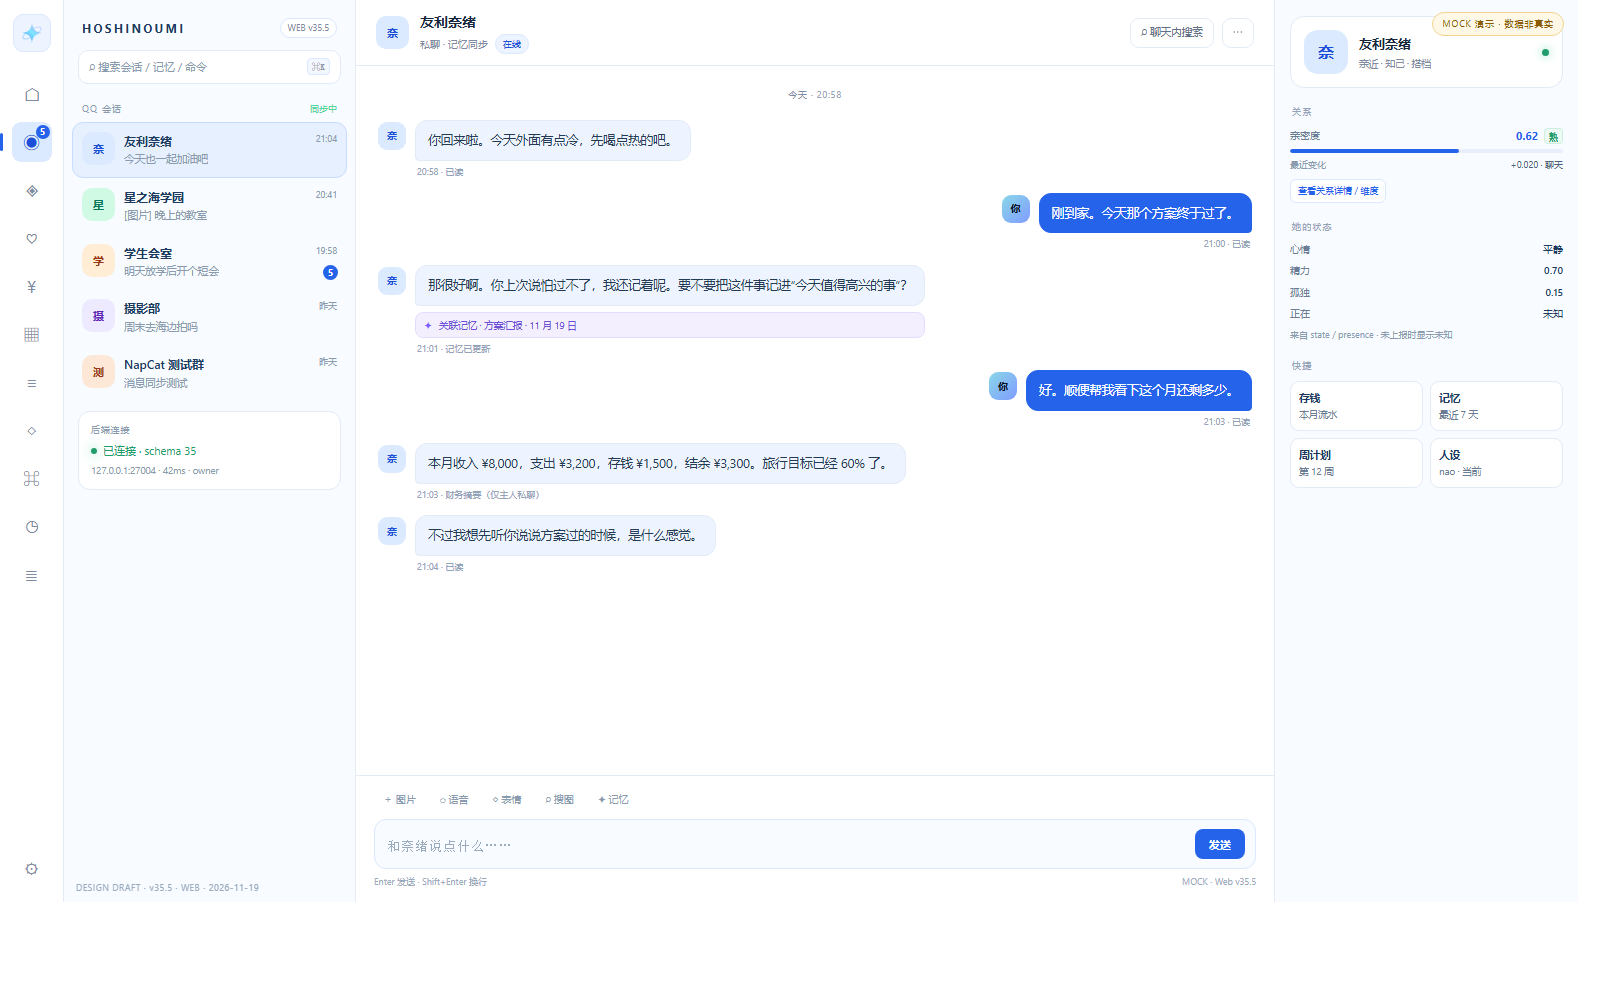
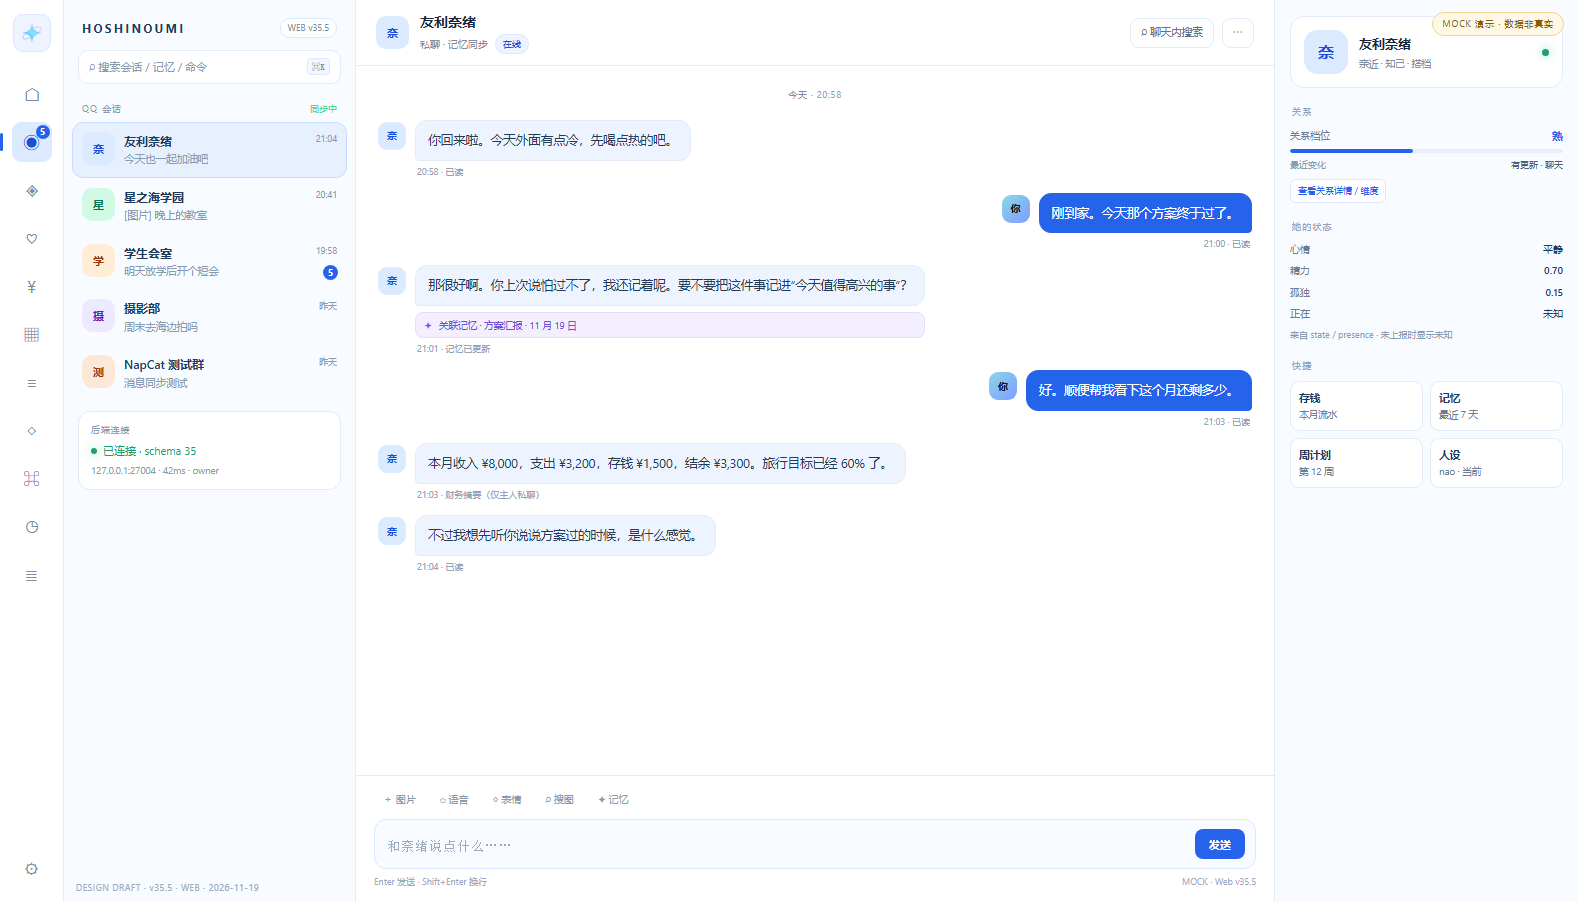
fix(v35.5): 去除重复关系进度条

diff --git a/docs/design/v35/web/hoshinoumi-web-v35.5.html b/docs/design/v35/web/hoshinoumi-web-v35.5.html
@@ -383,8 +383,7 @@ button{color:inherit}
     <div class="sec">关系</div>
     <div class="rel-head"><span>关系档位</span><b>熟</b></div>
     <div class="track"><i style="width:45%"></i></div>
-    <div class="track"><i style="width:62%"></i></div>
-    <div class="rel-meta">最近变化 <span>+0.020 · 聊天</span></div>
+    <div class="rel-meta">最近变化 <span>有更新 · 聊天</span></div>
     <button class="rel-more" data-page="relation">查看关系详情 / 维度</button>
 
 
